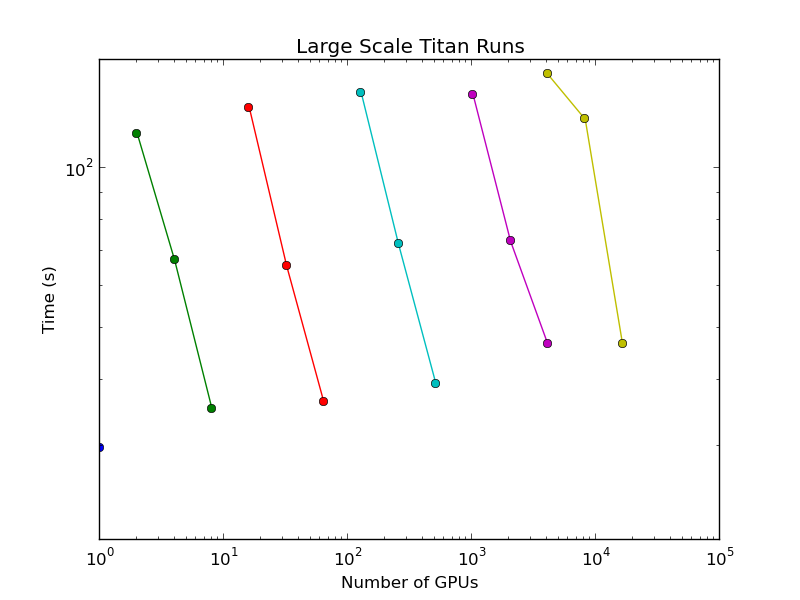
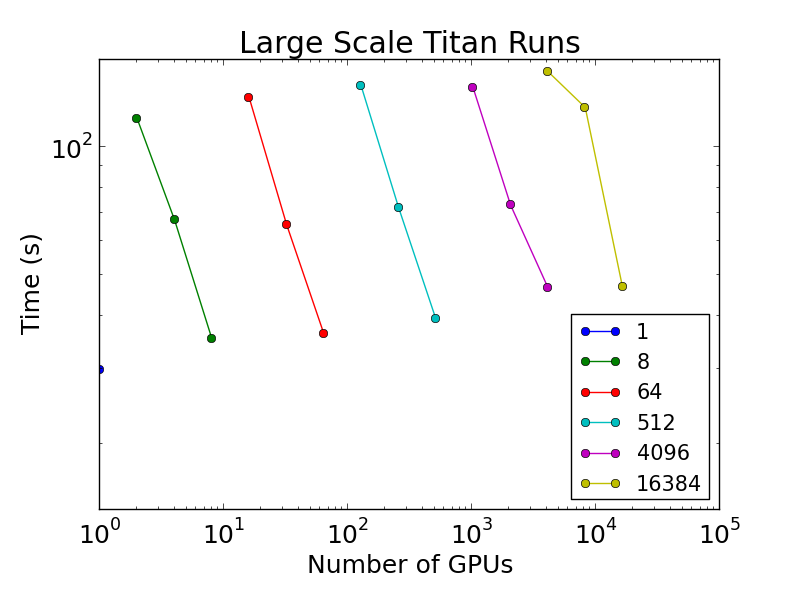
Minor updates to plots
git-svn-id: https://svn.mcs.anl.gov/repos/NEKCEM/trunk@1954 df63514b-fc50-0410-8a93-94e60f5a2dad

diff --git a/examples/gpu_scale/data/titanLargeScalePlot.py b/examples/gpu_scale/data/titanLargeScalePlot.py
@@ -7,9 +7,11 @@ from numpy.lib.recfunctions import append_fields
 
 saveIn=sys.argv[1]
 result=np.loadtxt('timing_comp_titan_large_GPU',dtype=[('No',np.int),('ele',np.int),('time',np.float)])
-resultComm=np.loadtxt('timing_comm_titan_large_GPU',dtype=[('No',np.int),('ele',np.int),('time',np.float)])
+resultComm=np.loadtxt('timing_comp_titan_large_GPU',dtype=[('No',np.int),('ele',np.int),('time',np.float)])
+
+plt.gcf().subplots_adjust(bottom=0.15)
 #!!! Change font here
-plt.rcParams.update({'font.size': 12})
+plt.rcParams.update({'font.size': 18})
 
 #!!! Change file type here
 fileExtension='.png'
@@ -28,8 +30,9 @@ plt.xscale('log')
 plt.yscale('log')
 plt.xlabel('Number of GPUs')
 plt.ylabel('Time (s)')
-plt.ylim([20,160])
+plt.ylim([14,160])
 plt.title('Large Scale Titan Runs')
+plt.legend(loc='lower right',prop={'size':15})
 save='plots/titanLargeScale'
 if saveIn == '0':
     plt.savefig(save+fileExtension)
@@ -78,44 +81,44 @@ else:
 #
 #---------------------------------------------
 
-plt.clf()
+# plt.clf()
 
-plt.plot(newResult['No'][newResult['work'] == 1],newResult['time'][newResult['work'] == 1],'-o',label='Computation')
+# plt.plot(newResult['No'][newResult['work'] == 1],newResult['time'][newResult['work'] == 1],'-o',label='Computation')
 
-plt.plot(newResultComm['No'][newResultComm['work'] == 1],newResultComm['time'][newResultComm['work'] == 1],'-o',label='Communication')
+# plt.plot(newResultComm['No'][newResultComm['work'] == 1],newResultComm['time'][newResultComm['work'] == 1],'-o',label='Communication')
 
-plt.legend(loc='lower right')
-plt.xscale('log')
-#plt.yscale('log')
-plt.xlabel('Number of GPUs')
-plt.ylabel('Time (s)')
-plt.title('Large Scale Titan Runs')
-save='plots/titanLargeScale_comm'
-if saveIn == '0':
-    plt.savefig(save+fileExtension)
-else:
-    plt.show()
+# plt.legend(loc='lower right')
+# plt.xscale('log')
+# #plt.yscale('log')
+# plt.xlabel('Number of GPUs')
+# plt.ylabel('Time (s)')
+# plt.title('Large Scale Titan Runs')
+# save='plots/titanLargeScale_comm'
+# if saveIn == '0':
+#     plt.savefig(save+fileExtension)
+# else:
+#     plt.show()
 
-#--------------------------------------------
-#
-# Comp/comm weak scaling plot - loglog
-#
-#---------------------------------------------
+# #--------------------------------------------
+# #
+# # Comp/comm weak scaling plot - loglog
+# #
+# #---------------------------------------------
 
-plt.clf()
+# plt.clf()
 
-plt.plot(newResult['No'][newResult['work'] == 1],newResult['time'][newResult['work'] == 1],'-o',label='Computation')
+# plt.plot(newResult['No'][newResult['work'] == 1],newResult['time'][newResult['work'] == 1],'-o',label='Computation')
 
-plt.plot(newResultComm['No'][newResultComm['work'] == 1],newResultComm['time'][newResultComm['work'] == 1],'-o',label='Communication')
+# plt.plot(newResultComm['No'][newResultComm['work'] == 1],newResultComm['time'][newResultComm['work'] == 1],'-o',label='Communication')
 
-plt.legend(loc='lower right')
-plt.xscale('log')
-plt.yscale('log')
-plt.xlabel('Number of GPUs')
-plt.ylabel('Time (s)')
-plt.title('Large Scale Titan Runs')
-save='plots/titanLargeScale_commLogLog'
-if saveIn == '0':
-    plt.savefig(save+fileExtension)
-else:
-    plt.show()
+# plt.legend(loc='lower right')
+# plt.xscale('log')
+# plt.yscale('log')
+# plt.xlabel('Number of GPUs')
+# plt.ylabel('Time (s)')
+# plt.title('Large Scale Titan Runs')
+# save='plots/titanLargeScale_commLogLog'
+# if saveIn == '0':
+#     plt.savefig(save+fileExtension)
+# else:
+#     plt.show()
